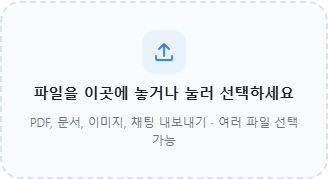
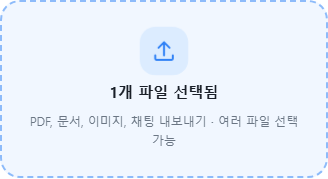
fix: expose training uploads and compact chat design settings

diff --git a/web/app.js b/web/app.js
@@ -108,10 +108,10 @@ async function education(){
  let conversation=`<div class="training-conversation">${label('기존 상담 내역 붙여넣기',`<textarea id="training-conversation" maxlength="30000" placeholder="고객: 예약 가능한 날짜가 언제예요?&#10;나: 원하시는 날짜 알려주시면 일정 확인해드릴게요."></textarea>`)}<p class="muted">고객과 내가 실제로 주고받은 대화를 붙여넣으세요. AI는 내 답변을 말투·응대 예시로 분석합니다. 이름·전화번호·주소 등 개인정보는 먼저 지워주세요.</p></div>`;
  let fileList=files.map(f=>`<div class="row line"><input class="check file-check" type="checkbox" value="${e(f.id)}" checked><span>${e(f.name)} <small>${f.chars}자</small></span>${btn('삭제',`act(async()=>{await api('/api/files/${f.id}',undefined,'DELETE');render()})`)}</div>`).join('')||'<p class="muted">등록된 자료가 없습니다. 지침이나 상담 내역만 입력해도 교육할 수 있습니다.</p>';
  let chatLines=`<div class="training-dialogue" role="log" aria-label="AI 교육 대화"><div class="training-turn assistant"><b>CS AI</b><p>안녕하세요. 먼저 어떤 말투로 고객을 상담할지 알려주세요. 예를 들어 “AI 티 안 나게 짧게 답해줘”, “내가 쓰는 말투처럼”, “이모지는 쓰지 마”처럼 편하게 말해 주세요.</p><p>말씀하신 내용을 분석해 교육 초안을 만들고, 확인하신 뒤 상담에 반영할게요.</p></div>${trainingChat.map(t=>`<div class="training-turn ${t.role}"><b>${t.role==='user'?'나':'CS AI'}</b><p>${e(t.text).replace(/\n/g,'<br>')}</p>${t.job?btn('이 결과 검토하기',`document.getElementById('training-results').scrollIntoView({behavior:'smooth'})`):''}</div>`).join('')}</div>`;
- let training=card('AI와 대화하며 교육하기',`${agent?label('교육 대상',select('training-agent',[['','기본 상담원'],[agent.id,agent.settings.brand]],educationAgent).replace('<select','<select onchange="trainingAgentChanged(this.value)"')):''}<p class="muted">현재 보유 ${me.credits} C · 대화 내용을 AI가 분석할 때 교육 크레딧이 차감됩니다. 반영 전에는 결과를 검토할 수 있습니다.</p>${chatLines}<form class="training-composer" onsubmit="event.preventDefault();estimateTraining()"><label class="label" for="training-text">AI에게 말해 주세요</label><textarea id="training-text" maxlength="30000" placeholder="예: 고객에게 AI 티 안 나게, 내 말투처럼 짧고 자연스럽게 답해줘."></textarea><div class="row"><button class="primary" type="submit">보내기 · 비용 확인</button>${trainingChat.length?btn('대화 새로 시작','trainingChat=[];estimate=null;render()'):''}</div></form><div id="estimate"></div><details class="training-attachments"><summary>자료와 기존 상담 내역도 함께 교육하기</summary>${fileList}${conversation}<p class="muted">선택한 파일과 붙여넣은 상담 내역은 다음 교육 메시지와 함께 분석됩니다.</p></details>`);
+ let training=card('AI와 대화하며 교육하기',`${agent?label('교육 대상',select('training-agent',[['','기본 상담원'],[agent.id,agent.settings.brand]],educationAgent).replace('<select','<select onchange="trainingAgentChanged(this.value)"')):''}<p class="muted">현재 보유 ${me.credits} C · 대화 내용을 AI가 분석할 때 교육 크레딧이 차감됩니다. 반영 전에는 결과를 검토할 수 있습니다.</p>${chatLines}<form class="training-composer" onsubmit="event.preventDefault();estimateTraining()"><label class="label" for="training-text">AI에게 말해 주세요</label><textarea id="training-text" maxlength="30000" placeholder="예: 고객에게 AI 티 안 나게, 내 말투처럼 짧고 자연스럽게 답해줘."></textarea><div class="row"><button class="primary" type="submit">보내기 · 비용 확인</button>${trainingChat.length?btn('대화 새로 시작','trainingChat=[];estimate=null;render()'):''}</div></form><div id="estimate"></div><details class="training-attachments" open><summary>기존 상담 내역을 붙여넣어 함께 교육하기</summary>${fileList}${conversation}<p class="muted">선택한 파일과 붙여넣은 상담 내역은 다음 교육 메시지와 함께 분석됩니다.</p></details>`);
  let results=`<div id="training-results">${card('교육 결과 검토 및 반영',jobs.filter(j=>j.result).map(j=>`<div class="line"><strong>${e(j.agent?'추가 상담원':'기본 상담원')} · ${e(j.state==='published'?'반영 완료':'검토 필요')} · ${j.cost} C</strong><p>${e(j.result.style||'말투 분석 없음')}</p>${j.result.rules?.length?`<ul>${j.result.rules.map(rule=>`<li>${e(rule)}</li>`).join('')}</ul>`:''}${j.result.conflicts?.length?`<p class="muted">확인 필요: ${e(j.result.conflicts.join(' · '))}</p>`:''}${j.state==='review'?btn('결과 수정',`reviewModal('${j.id}')`)+btn('승인 및 상담에 반영',`act(async()=>{await api('/api/training/${j.id}/publish',{});await refresh();render()})`,'primary'):''}</div>`).join('')||'<p class="muted">대화에서 교육을 시작하면 분석 결과가 표시됩니다. 승인 전에는 고객 상담에 반영되지 않습니다.</p>')}</div>`;
  let direct=card('모범 답변으로 교육',`<p class="muted">고객 질문과 원하는 답변을 알려주세요. 입력과 견적 확인은 무료이고, 교육을 시작하면 교육 크레딧이 차감됩니다. 결과를 검토하고 승인해야 상담에 반영됩니다.</p>${label('고객 질문',input('faq-q','','text','예: 예약은 어떻게 하나요?'))}${label('내가 원하는 답변',ta('faq-a'))}<p class="muted">같은 문장만 찾는 방식은 아닙니다. 실제 AI는 유사한 질문에도 교육한 답변을 참고하지만, 표현이 크게 다르면 놓칠 수 있어 상담 테스트로 확인해 주세요. 로컬 데모는 단순 유사도 판정입니다.</p>${btn('교육 비용 확인',"act(async()=>{showEducationQuote(await api('/api/faq',{q:val('faq-q'),a:val('faq-a')}))})",'primary')}${faq.map(f=>`<div class="line"><b>${e(f.q)}</b><p>${e(f.a)}</p>${btn('삭제',`act(async()=>{await api('/api/faq/${f.id}',undefined,'DELETE');render()})`)}</div>`).join('')}`);
- return pageTop('AI 교육시키기','먼저 말투를 알려주세요. 대화하며 교육 결과를 다듬고 승인할 수 있습니다.')+training+results+`<details class="training-more"><summary>자료 등록과 모범 답변 교육</summary><div class="training-credit-summary"><span>교육 크레딧 <strong>${me.credits} C</strong><small>교육 분석을 시작할 때 차감됩니다.</small></span>${btn('크레딧 내역',"go('credits')")}</div>${materials}${direct}</details>`+btn('AI 상담 테스트',"go('test')",'primary');
+ return pageTop('AI 교육시키기','먼저 말투를 알려주세요. 대화하며 교육 결과를 다듬고 승인할 수 있습니다.')+`<nav class="training-shortcuts" aria-label="교육 자료 바로가기"><button type="button" onclick="document.getElementById('training-materials').scrollIntoView({behavior:'smooth'})">PDF·사진·파일 등록</button><button type="button" onclick="document.getElementById('training-conversation').scrollIntoView({behavior:'smooth'})">기존 상담 내역 붙여넣기</button></nav>`+training+results+`<section id="training-materials" class="training-more"><div class="training-credit-summary"><span>교육 크레딧 <strong>${me.credits} C</strong><small>교육 분석을 시작할 때 차감됩니다.</small></span>${btn('크레딧 내역',"go('credits')")}</div>${materials}</section><details class="training-more"><summary>모범 답변으로 교육하기</summary>${direct}</details>`+btn('AI 상담 테스트',"go('test')",'primary');
 }
 
 function fileDropPick(){if(!$('#file-drop')?.classList.contains('uploading'))$('#upload')?.click()}
@@ -255,7 +255,7 @@ async function saveLogo(){await act(async()=>{let f=$('#logo-file').files[0];if(
 const appearanceSettings=settings;
 settings=async function(){let html=await appearanceSettings();if(!me.public_access){let logo=label('업체 로고',`<input type="file" id="logo-file" accept="image/png,image/jpeg,image/webp"><small>정사각형 이미지 권장 · 400KB 이하 · 저장 시 128×128px 이내 PNG로 변환</small>`)+btn('로고 저장','saveLogo()');html=html.replace('<p class="muted">유료 상담 구독 후 로고 설정 가능</p>',logo)}return html+card('채팅창 디자인 미리보기',`<p>로고와 채팅 테마를 바꾸기 전에 실제 화면에서 확인하세요.</p>${btn('채팅창 디자인 보기',"go('preview')",'primary')}`)};
 const existingChatPreview=preview;
-preview=async function(test=false){let html=await existingChatPreview(test);if(test)return html;let r=await api('/api/appearance');return html+card('업체 이미지와 채팅 디자인',`<p class="muted">업체 로고는 기본 기능입니다. 정사각형 이미지 권장 · 400KB 이하 · 저장 시 128×128px 이내 PNG로 변환됩니다.</p><div class="row appearance-upload"><input type="file" id="logo-file" accept="image/png,image/jpeg,image/webp" onchange="previewLogo(this)">${btn('로고 저장','saveLogo()','primary')}${r.logo?btn('로고 제거',"act(async()=>{await api('/api/appearance',{logo:''});render()})"):''}</div><p class="muted">디자인 옵션은 아래에서 바로 미리볼 수 있습니다. 저장은 고급 디자인 옵션을 이용할 때 가능합니다.</p><div class="grid">${label('채팅 테마',select('chat-theme',[['dark','기본'],['toss','토스형'],['messenger','메신저형'],['premium','프리미엄형']],r.theme).replace('<select','<select onchange="previewChatDesign()"'))}${label('테마 색상',input('chat-color',r.color,'color').replace('<input','<input oninput="previewChatDesign()"'))}${label('메시지 간격',select('chat-density',[['normal','기본'],['compact','촘촘하게'],['roomy','여유롭게']],r.density).replace('<select','<select onchange="previewChatDesign()"'))}${label('말풍선 모서리',select('chat-radius',[['rounded','둥글게'],['square','각지게']],r.bubble_radius).replace('<select','<select onchange="previewChatDesign()"'))}</div>${has('design')?btn('디자인 저장','saveChatDesign()','primary'):btn('고급 디자인 옵션 보기',"go('addons')")}${!has('design')?'<p class="muted">지금은 미리보기만 가능합니다. 고급 디자인 옵션을 이용하면 선택한 디자인을 저장할 수 있습니다.</p>':''}`)};
+preview=async function(test=false){let html=await existingChatPreview(test);if(test)return html;let r=await api('/api/appearance');let design=`<details class="card preview-appearance"><summary><strong>업체 이미지·채팅 디자인</strong><small>로고 설정 · 디자인 미리보기</small></summary><div class="preview-appearance-body"><p class="muted">로고는 무료 · 정사각형 400KB 이하</p><div class="appearance-upload"><input type="file" id="logo-file" accept="image/png,image/jpeg,image/webp" aria-label="업체 로고 선택" onchange="previewLogo(this)"><div class="row">${btn('로고 저장','saveLogo()','primary')}${r.logo?btn('로고 제거',"act(async()=>{await api('/api/appearance',{logo:''});render()})"):''}</div></div><div class="appearance-fields"><label><span>채팅 테마</span>${select('chat-theme',[['dark','기본'],['toss','토스형'],['messenger','메신저형'],['premium','프리미엄형']],r.theme).replace('<select','<select onchange="previewChatDesign()"')}</label><label><span>테마 색상</span>${input('chat-color',r.color,'color').replace('<input','<input oninput="previewChatDesign()"')}</label><label><span>메시지 간격</span>${select('chat-density',[['normal','기본'],['compact','촘촘하게'],['roomy','여유롭게']],r.density).replace('<select','<select onchange="previewChatDesign()"')}</label><label><span>말풍선 모서리</span>${select('chat-radius',[['rounded','둥글게'],['square','각지게']],r.bubble_radius).replace('<select','<select onchange="previewChatDesign()"')}</label></div><div class="appearance-actions">${has('design')?btn('디자인 저장','saveChatDesign()','primary'):btn('고급 디자인 옵션 보기',"go('addons')")}${!has('design')?'<small>선택한 디자인은 미리볼 수 있으며, 저장은 유료 옵션입니다.</small>':''}</div></div></details>`;let end=html.lastIndexOf('</div></div>');return end<0?html+design:html.slice(0,end)+design+html.slice(end)};
 function previewChatDesign(){let phone=$('.phone');if(!phone)return;phone.classList.remove('theme-dark','theme-toss','theme-messenger','theme-premium','density-normal','density-compact','density-roomy','radius-rounded','radius-square');phone.classList.add('theme-'+val('chat-theme'),'density-'+val('chat-density'),'radius-'+val('chat-radius'));phone.style.setProperty('--chat-color',val('chat-color'))}
 function previewLogo(field){let f=field.files[0];if(!f)return;if(f.size>400000){toast('로고는 400KB 이하로 선택하세요.');field.value='';return}let reader=new FileReader();reader.onload=()=>{let avatar=$('.phone .avatar');if(avatar)avatar.innerHTML=`<img src="${e(reader.result)}" alt="로고 미리보기">`};reader.readAsDataURL(f)}
 async function saveChatDesign(){await act(async()=>{await api('/api/appearance',{color:val('chat-color'),theme:val('chat-theme'),density:val('chat-density'),bubble_radius:val('chat-radius')});toast('채팅 디자인을 저장했습니다.');render()})}

diff --git a/web/ui-refinement.css b/web/ui-refinement.css
@@ -230,8 +230,9 @@
 @media(max-width:700px){.app-sidebar:not(.open) .demo-view-select{display:none}.demo-view-select{margin:8px 0}}
 .education-file-drop{--upload-progress:0%;position:relative;display:flex;flex-direction:column;align-items:center;justify-content:center;gap:8px;min-height:178px;margin:14px 0 10px;padding:20px;border:2px dashed #d7e3f4;border-radius:20px;background:#f8fbff;color:#191f28;text-align:center;cursor:pointer;outline:none;transition:background .2s,border-color .2s,box-shadow .2s}
 .education-file-drop:hover,.education-file-drop.dragging,.education-file-drop:focus-visible{border-color:#3182f6;background:#eef6ff;box-shadow:0 0 0 4px #3182f615}
+.education-file-drop.dragging{border-style:solid;box-shadow:0 0 0 6px #3182f623}.education-file-drop.selected{border-color:#8dbbfa;background:#f1f7ff}.education-file-drop.selected .file-drop-icon{background:#dcecff}
 .education-file-drop strong{font-size:15px;word-break:keep-all}.education-file-drop>span:nth-of-type(2){color:#6b7684;font-size:12px;word-break:keep-all}
-.file-drop-icon{display:grid;place-items:center;width:44px;height:44px;border-radius:14px;background:#e8f3ff;color:#3182f6;will-change:transform}.file-drop-icon svg{width:24px;height:24px;fill:none;stroke:currentColor;stroke-width:1.8;stroke-linecap:round;stroke-linejoin:round}.file-drop-icon .file-drop-check{display:none}
+.file-drop-icon{position:relative;display:grid;place-items:center;width:44px;height:44px;border-radius:14px;background:#e8f3ff;color:#3182f6;will-change:transform}.file-drop-icon::before{content:'';position:absolute;inset:-7px;border:2px solid #8dbbfa;border-radius:20px;opacity:0;transform:scale(.75);transition:opacity .2s,transform .2s}.education-file-drop.dragging .file-drop-icon::before,.education-file-drop.uploading .file-drop-icon::before{opacity:1;transform:scale(1)}.file-drop-icon svg{width:24px;height:24px;fill:none;stroke:currentColor;stroke-width:1.8;stroke-linecap:round;stroke-linejoin:round}.file-drop-icon .file-drop-check{display:none}
 .education-file-drop.success{border-style:solid;border-color:#6cc993;background:#f3fbf6}.education-file-drop.success .file-drop-icon{background:#dff5e7;color:#19a05b}.education-file-drop.success .file-drop-icon svg:first-child{display:none}.education-file-drop.success .file-drop-icon .file-drop-check{display:block}
 .education-file-drop.error{border-color:#ec8b8b;background:#fff8f8}.education-file-drop.uploading{cursor:progress}
 .file-drop-progress{display:none;width:min(240px,90%);height:4px;margin-top:6px;border-radius:9px;background:#e0e9f5;overflow:hidden}.education-file-drop.uploading .file-drop-progress{display:block}.file-drop-progress span{display:block;width:var(--upload-progress);height:100%;border-radius:9px;background:#3182f6;transition:width .16s}.education-file-drop.uploading[style*="100%"] .file-drop-progress span{width:100%}
@@ -240,3 +241,6 @@
 .addon-price-table{container-type:inline-size;container-name:addon-price;width:100%}
 .addon-price-table table{table-layout:auto;min-width:0;width:100%}.addon-price-table th:first-child,.addon-price-table td:first-child{min-width:105px;word-break:keep-all;overflow-wrap:normal}.addon-price-table th:nth-child(2),.addon-price-table td:nth-child(2){min-width:90px;white-space:nowrap}.addon-price-table th:last-child,.addon-price-table td:last-child{text-align:left;word-break:keep-all}
 @container addon-price (max-width:540px){.addon-price-table table,.addon-price-table tbody{display:block;width:100%;min-width:0}.addon-price-table thead{display:none}.addon-price-table tr{display:grid;grid-template-columns:minmax(0,1fr) auto;gap:5px 12px;padding:12px 0;border-bottom:1px solid #edf0f3}.addon-price-table td{display:block;min-width:0!important;padding:0;border:0}.addon-price-table td:first-child{grid-column:1;font-weight:650;white-space:normal;overflow-wrap:anywhere}.addon-price-table td:nth-child(2){grid-column:2;text-align:right;font-weight:650;white-space:nowrap}.addon-price-table td:last-child{grid-column:1/-1;color:#6b7684;font-size:12px;line-height:1.5}.addon-price-table td:last-child::before{content:attr(data-label) ' · ';color:#8b95a1}}
+.training-shortcuts{display:flex;flex-wrap:wrap;gap:8px;margin:0 0 18px}.training-shortcuts button{padding:9px 13px;border:1px solid #cfe2ff;border-radius:10px;background:#f3f8ff;color:#246bd1;font-size:13px;font-weight:650;cursor:pointer}.training-shortcuts button:hover,.training-shortcuts button:focus-visible{background:#e6f1ff;border-color:#8abaff}
+.preview-appearance{margin-top:14px;padding:18px!important}.preview-appearance h2{margin:0 0 5px;font-size:17px}.preview-appearance>.muted{margin:0 0 10px;font-size:12px}.preview-appearance .appearance-upload{display:grid;gap:8px;margin-bottom:12px}.preview-appearance .appearance-upload input{width:100%;min-width:0;padding:8px;font-size:12px}.preview-appearance .appearance-upload .row{gap:6px}.preview-appearance .appearance-upload button,.preview-appearance .appearance-actions button{padding:8px 12px;font-size:12px}.appearance-fields{display:grid;gap:8px}.appearance-fields label{display:grid;grid-template-columns:minmax(90px,1fr) minmax(0,1.5fr);align-items:center;gap:8px;color:#4e5968;font-size:12px}.appearance-fields select,.appearance-fields input{width:100%;min-width:0;margin:0;padding:8px;font-size:12px}.appearance-fields input[type=color]{height:36px;padding:3px}.appearance-actions{display:grid;gap:5px;margin-top:12px}.appearance-actions small{color:#8b95a1;font-size:11px;line-height:1.4}
+.preview-appearance summary{display:flex;align-items:center;justify-content:space-between;gap:8px;cursor:pointer;list-style:none}.preview-appearance summary::-webkit-details-marker{display:none}.preview-appearance summary strong{font-size:14px}.preview-appearance summary small{color:#8b95a1;font-size:11px;text-align:right}.preview-appearance summary::after{content:'⌄';color:#8b95a1;font-size:18px;line-height:1}.preview-appearance[open] summary::after{transform:rotate(180deg)}.preview-appearance-body{padding-top:16px}.preview-appearance-body>.muted{margin:0 0 10px;font-size:12px}

diff --git a/web/file-drop.js b/web/file-drop.js
@@ -12,7 +12,7 @@
       if (!zone.isConnected) return;
       const active = zone.matches(':hover, :focus-visible, .dragging');
       state.hover.t = active ? 1 : 0;
-      state.circle.t = zone.classList.contains('success') ? 1.12 : active ? 1.08 : 1;
+      state.circle.t = zone.classList.contains('success') ? 1.16 : zone.classList.contains('selected') ? 1.1 : active ? 1.13 : 1;
       state.icon.t = zone.classList.contains('uploading') ? .8 : 1;
       state.progress.t = zone.classList.contains('uploading') ? 1 : 0;
       state.ring.t = zone.classList.contains('uploading') ? 1 : 0;

diff --git a/FEATURE_CHECKLIST.md b/FEATURE_CHECKLIST.md
@@ -120,3 +120,4 @@
 
 2026-11-26 정책·푸터: 공개 정책 6종과 실제 사업자 정보 환경변수 표시, 미입력 시 개발용 상태 표시를 추가했습니다. `POLICY_ENFORCE=1`은 사업자 정보·개인정보 흐름·환불 규칙·정책 버전 승인 전에는 실패하도록 막았습니다. 실제 상호·대표·사업자번호·주소·연락처는 사용자 제공 전이라 비워 두었습니다. 실결제 및 정식 출시 전 법률 검토와 실제 데이터 처리·환불 조건 확정이 필요합니다.
 2026-11-26 상담함·추가 기능 요금표 정리: 무료 상담 테스트 기록 열람을 구독 결제 안내처럼 보이게 하던 상담함 카드를 제거했습니다. 공개 상담 링크의 구독 조건은 채팅창 미리보기에서 계속 안내합니다. 추가 기능 요금표는 좁은 카드·모바일에서 이름과 가격을 같은 줄에, 포함 기능을 아래 줄에 표시해 글자 단위 줄바꿈을 없앴습니다. 로컬 모바일 브라우저에서 요금표 가로 넘침 없음과 무료 상담함 안내 제거를 확인했습니다.
+2026-11-26 교육 자료·디자인 설정 접근성: AI 교육 화면 첫머리에 PDF·사진·파일 등록과 기존 상담 내역 붙여넣기 바로가기를 추가했습니다. 교육 자료 카드는 접지 않고 표시하며, 상담 내역 입력도 펼쳐 둡니다. File drop은 선택·끌어놓기·등록 성공 상태를 실제 로컬 파일로 확인했고 모바일 가로 넘침이 없습니다. 채팅창 디자인 설정은 미리보기의 상담 사용량 아래 작은 펼침 카드로 옮겼으며 로고와 테마 제어는 펼쳐서 사용할 수 있습니다.
